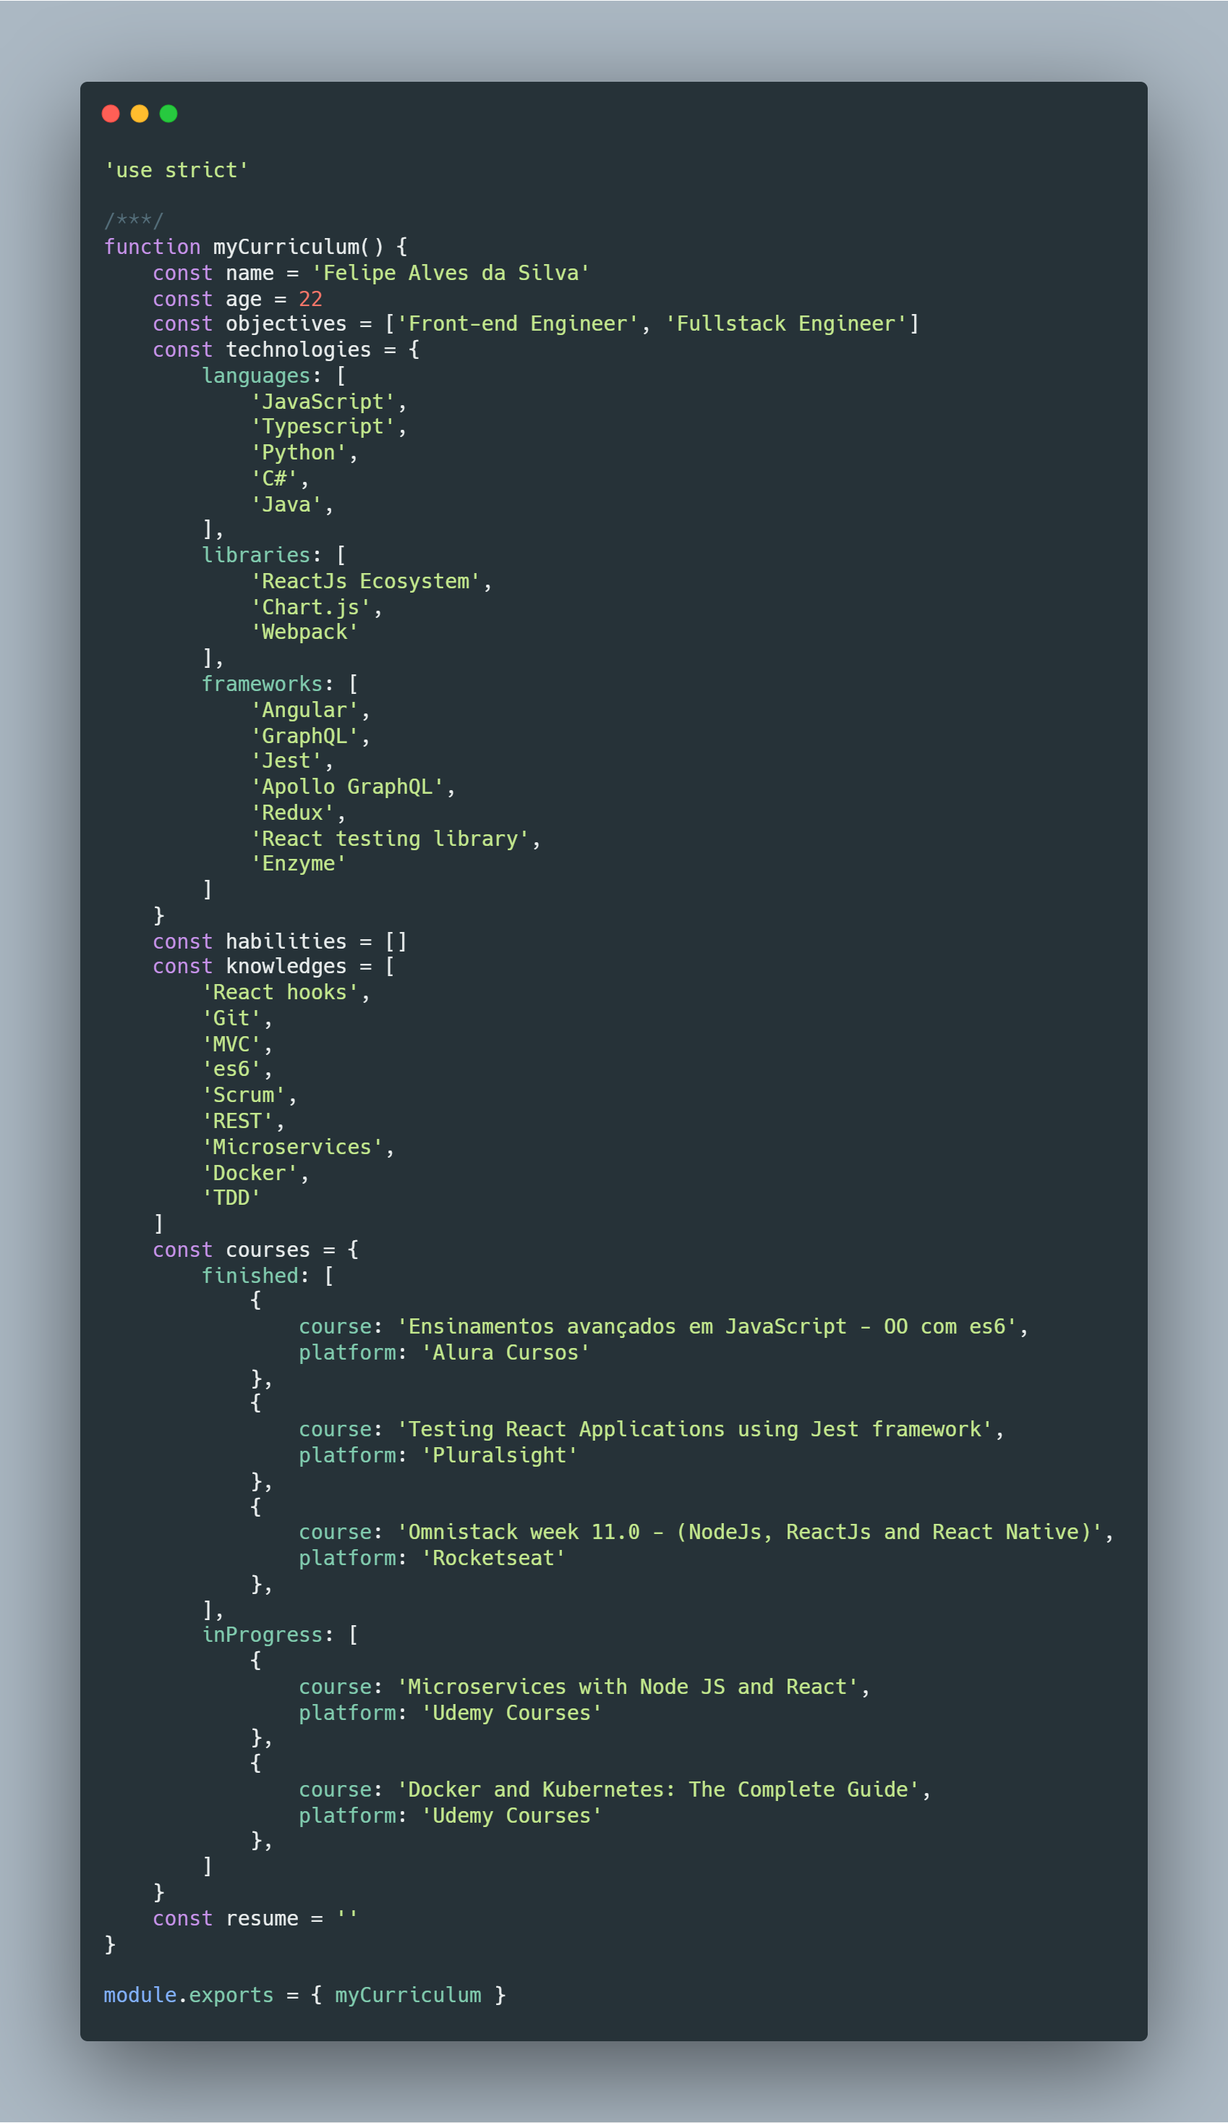
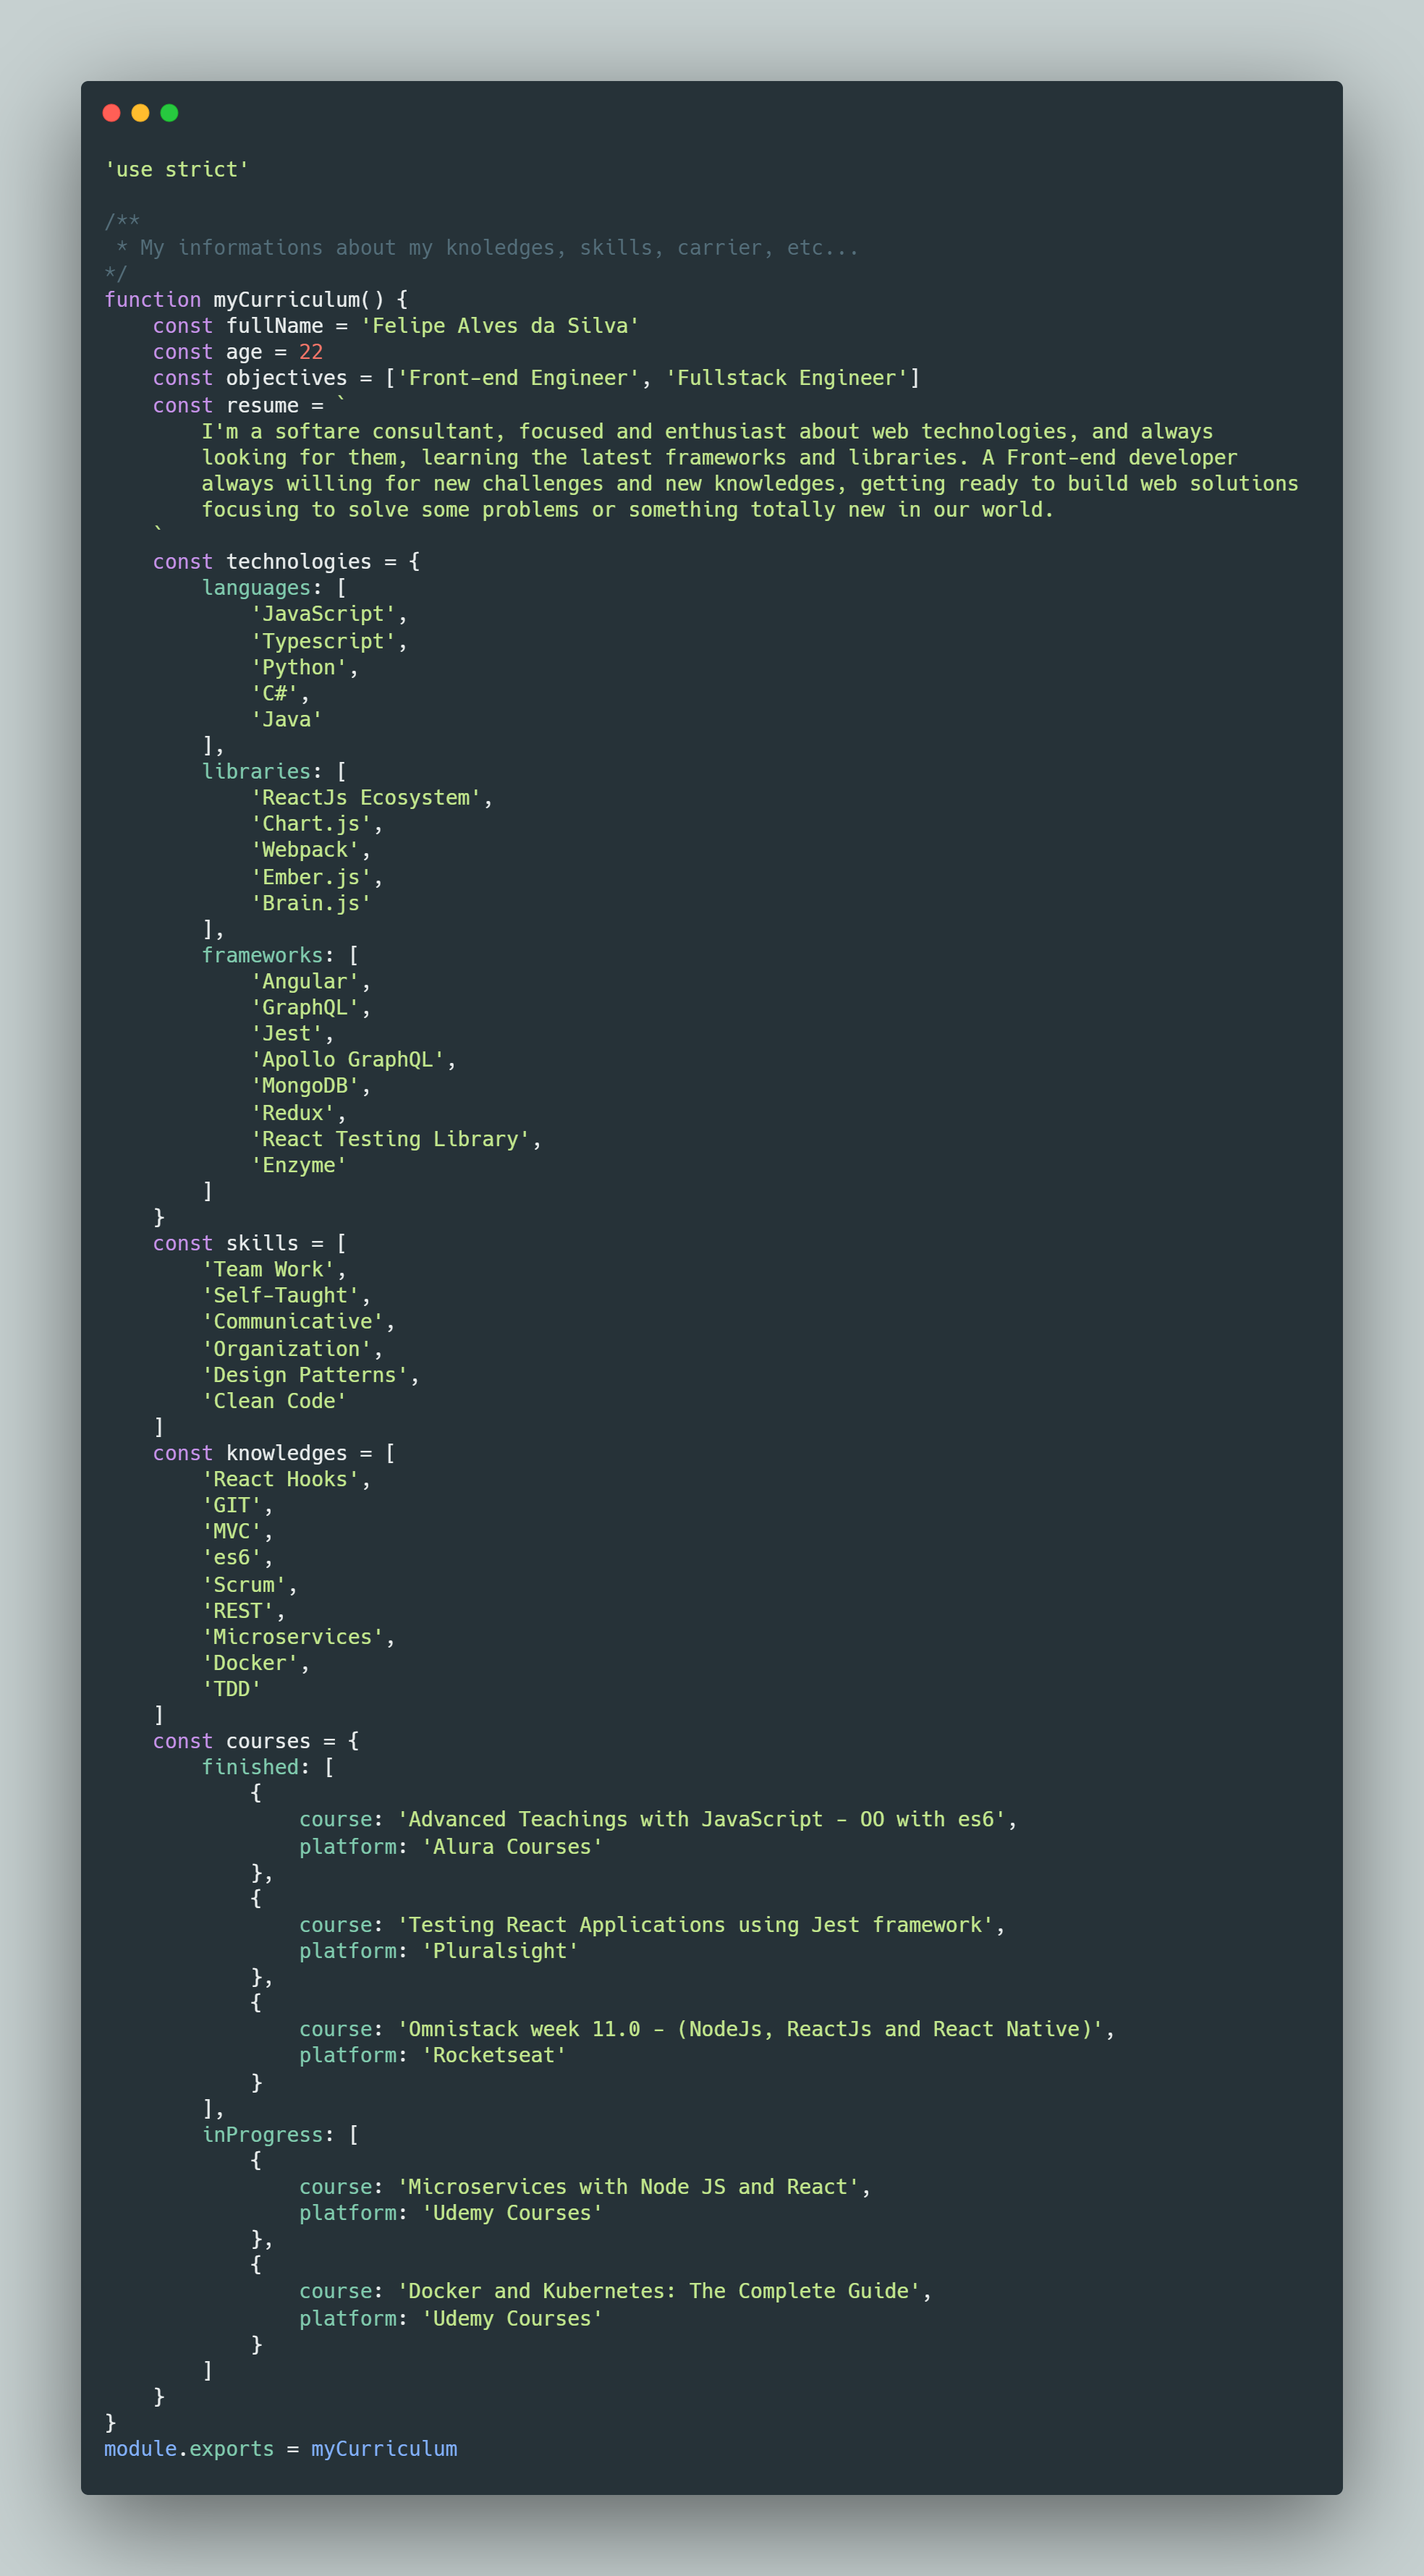
Updating resume ✍

diff --git a/curriculum.js b/curriculum.js
@@ -1,10 +1,18 @@
 'use strict'
 
-/** */
+/**
+ * My informations about my knoledges, skills, carrier, etc...
+*/
 function myCurriculum() {
-    const name = 'Felipe Alves da Silva'
+    const fullName = 'Felipe Alves da Silva'
     const age = 22
     const objectives = ['Front-end Engineer', 'Fullstack Engineer']
+    const resume = `
+        I'm a softare consultant, focused and enthusiast about web technologies, and always 
+        looking for them, learning the latest frameworks and libraries. A Front-end developer
+        always willing for new challenges and new knowledges, getting ready to build web solutions 
+        focusing to solve some problems or something totally new in our world.
+    `
     const technologies = {
         languages: [
             'JavaScript',
@@ -15,20 +23,30 @@ function myCurriculum() {
         ],
         libraries: [
             'ReactJs Ecosystem',
-            'Chart.Js',
-            'Webpack'
+            'Chart.js',
+            'Webpack',
+            'Ember.js',
+            'Brain.js'
         ],
         frameworks: [
             'Angular',
             'GraphQL',
             'Jest',
             'Apollo GraphQL',
+            'MongoDB',
             'Redux',
             'React Testing Library',
             'Enzyme'
         ]
     }
-    const habilities = []
+    const skills = [
+        'Team Work',
+        'Self-Taught',
+        'Communicative',
+        'Organization',
+        'Design Patterns',
+        'Clean Code'
+    ]
     const knowledges = [
         'React Hooks',
         'GIT',
@@ -43,8 +61,8 @@ function myCurriculum() {
     const courses = {
         finished: [
             {
-                course: 'Ensinamentos avançados em JavaScript - OO com es6',
-                platform: 'Alura Cursos'
+                course: 'Advanced Teachings with JavaScript - OO with es6',
+                platform: 'Alura Courses'
             },
             {
                 course: 'Testing React Applications using Jest framework',
@@ -66,6 +84,5 @@ function myCurriculum() {
             }
         ]
     }
-    const resume = ''
 }
 module.exports = myCurriculum
